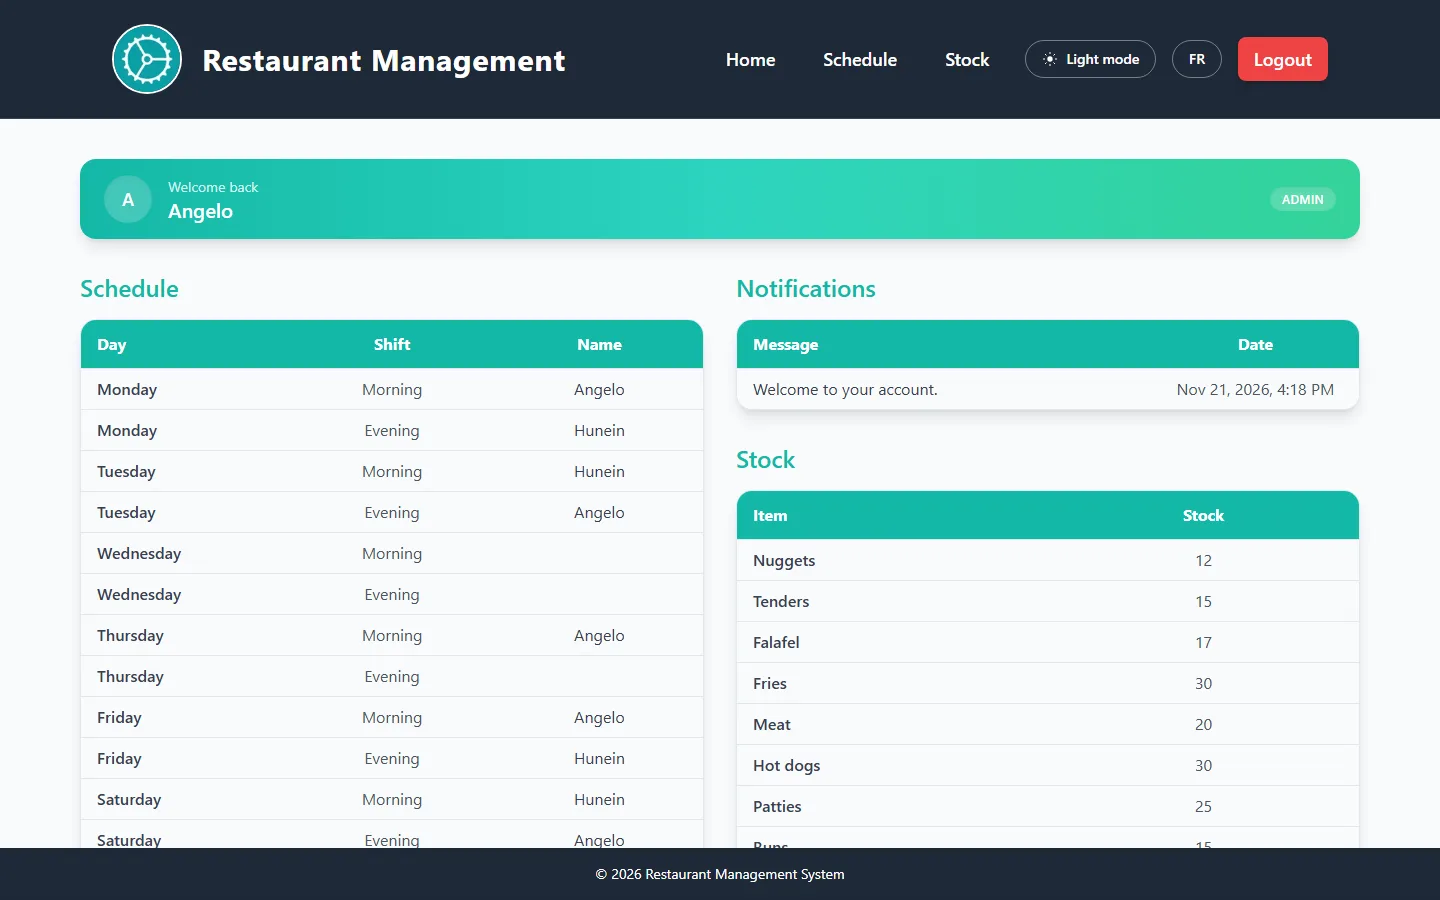
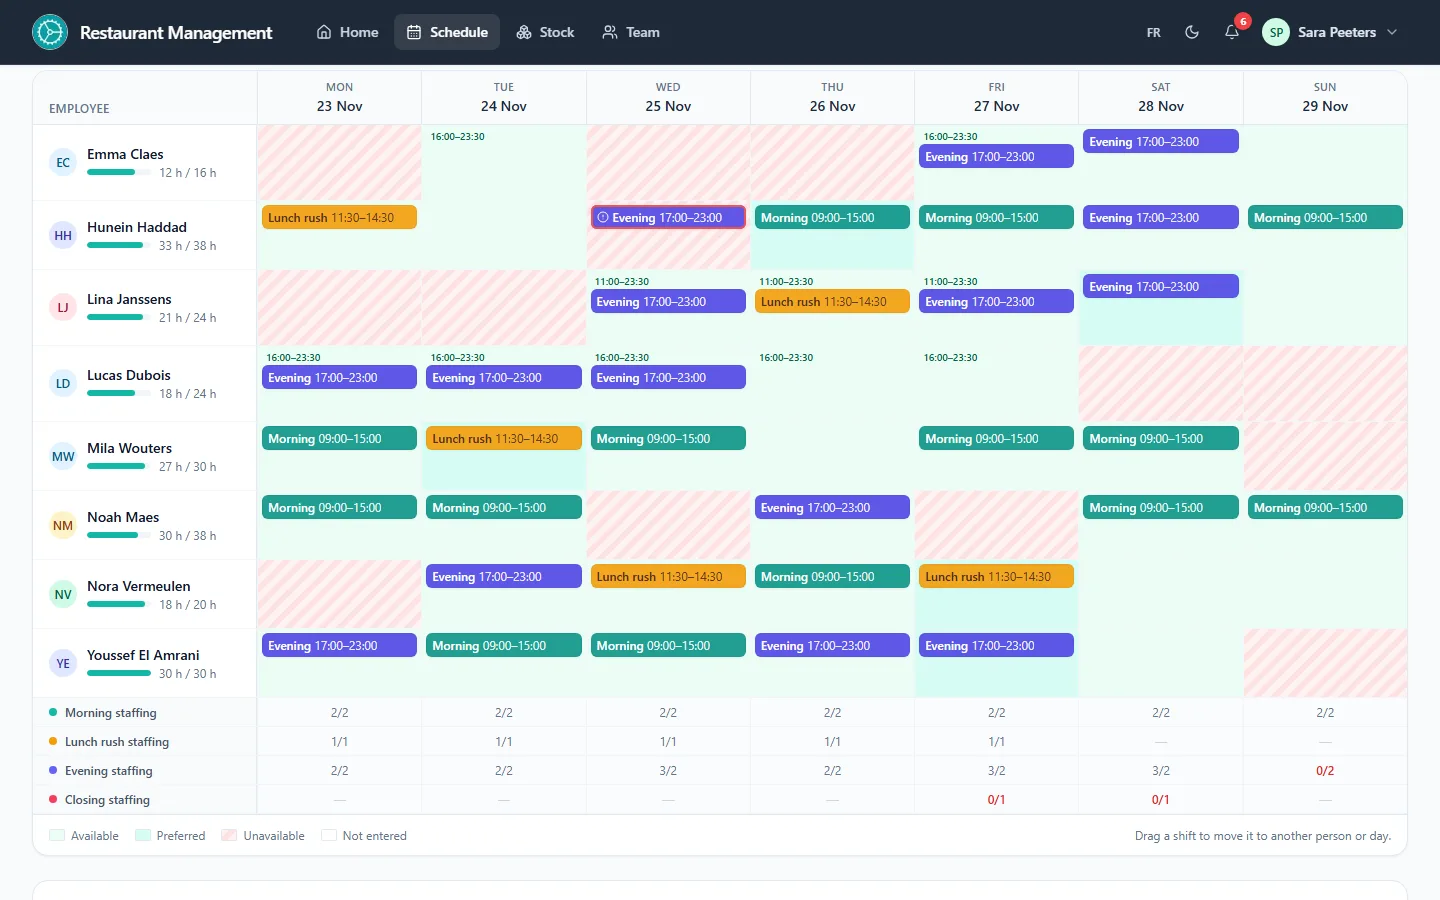
Update the restaurant management card with the new planning screenshot and description

diff --git a/src/data/projects.ts b/src/data/projects.ts
@@ -44,8 +44,8 @@ export const PROJECTS: Project[] = [
     title: "Restaurant Management System",
     category: "Full stack, team project",
     description:
-      "A full-stack app for running the day-to-day side of a restaurant: stock tracking, shift scheduling, and notifications pushed to the people affected. Built with a Scrum team at UCLL: a Spring Boot REST API on one side, Next.js on the other, and JWT auth in an httpOnly cookie between them.",
-    tech: ["Java 21", "Spring Boot", "Next.js 15", "React 19", "PostgreSQL", "TypeScript"],
+      "Shift planning and stock for a restaurant, with admin, manager and employee roles enforced by the API. Employees enter their availability; managers plan on a grid that flags clashes and short staffing, then publish the week. Every stock change is a logged movement, and orders book straight into stock. Started as a Scrum team project at UCLL.",
+    tech: ["Java 21", "Spring Boot", "PostgreSQL", "Flyway", "Next.js 15", "TypeScript"],
     links: [{ label: "GitHub", href: "https://github.com/angelo-mouawad/restaurant-management-system-project" }],
   },
   {
